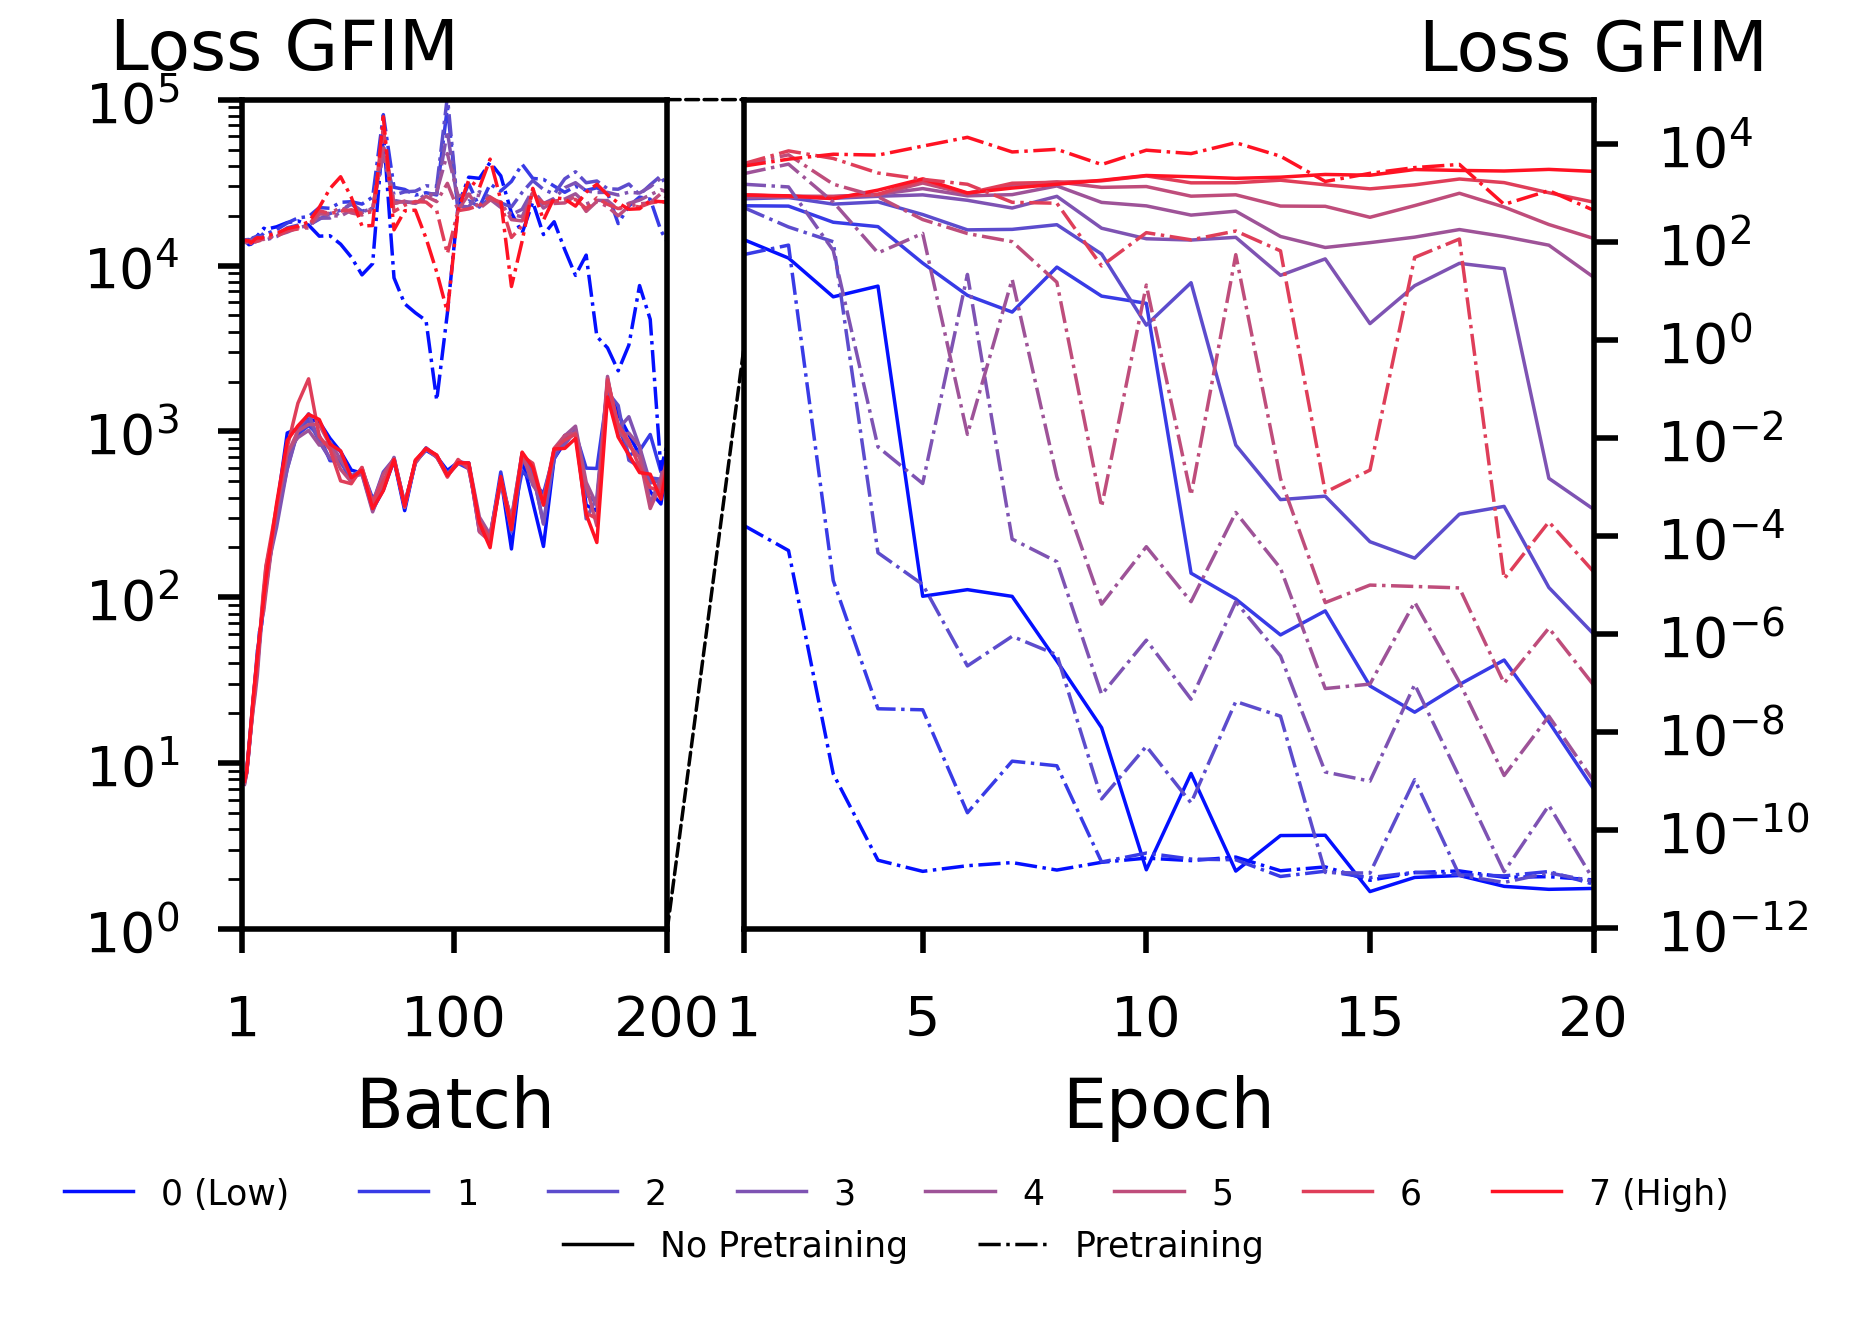
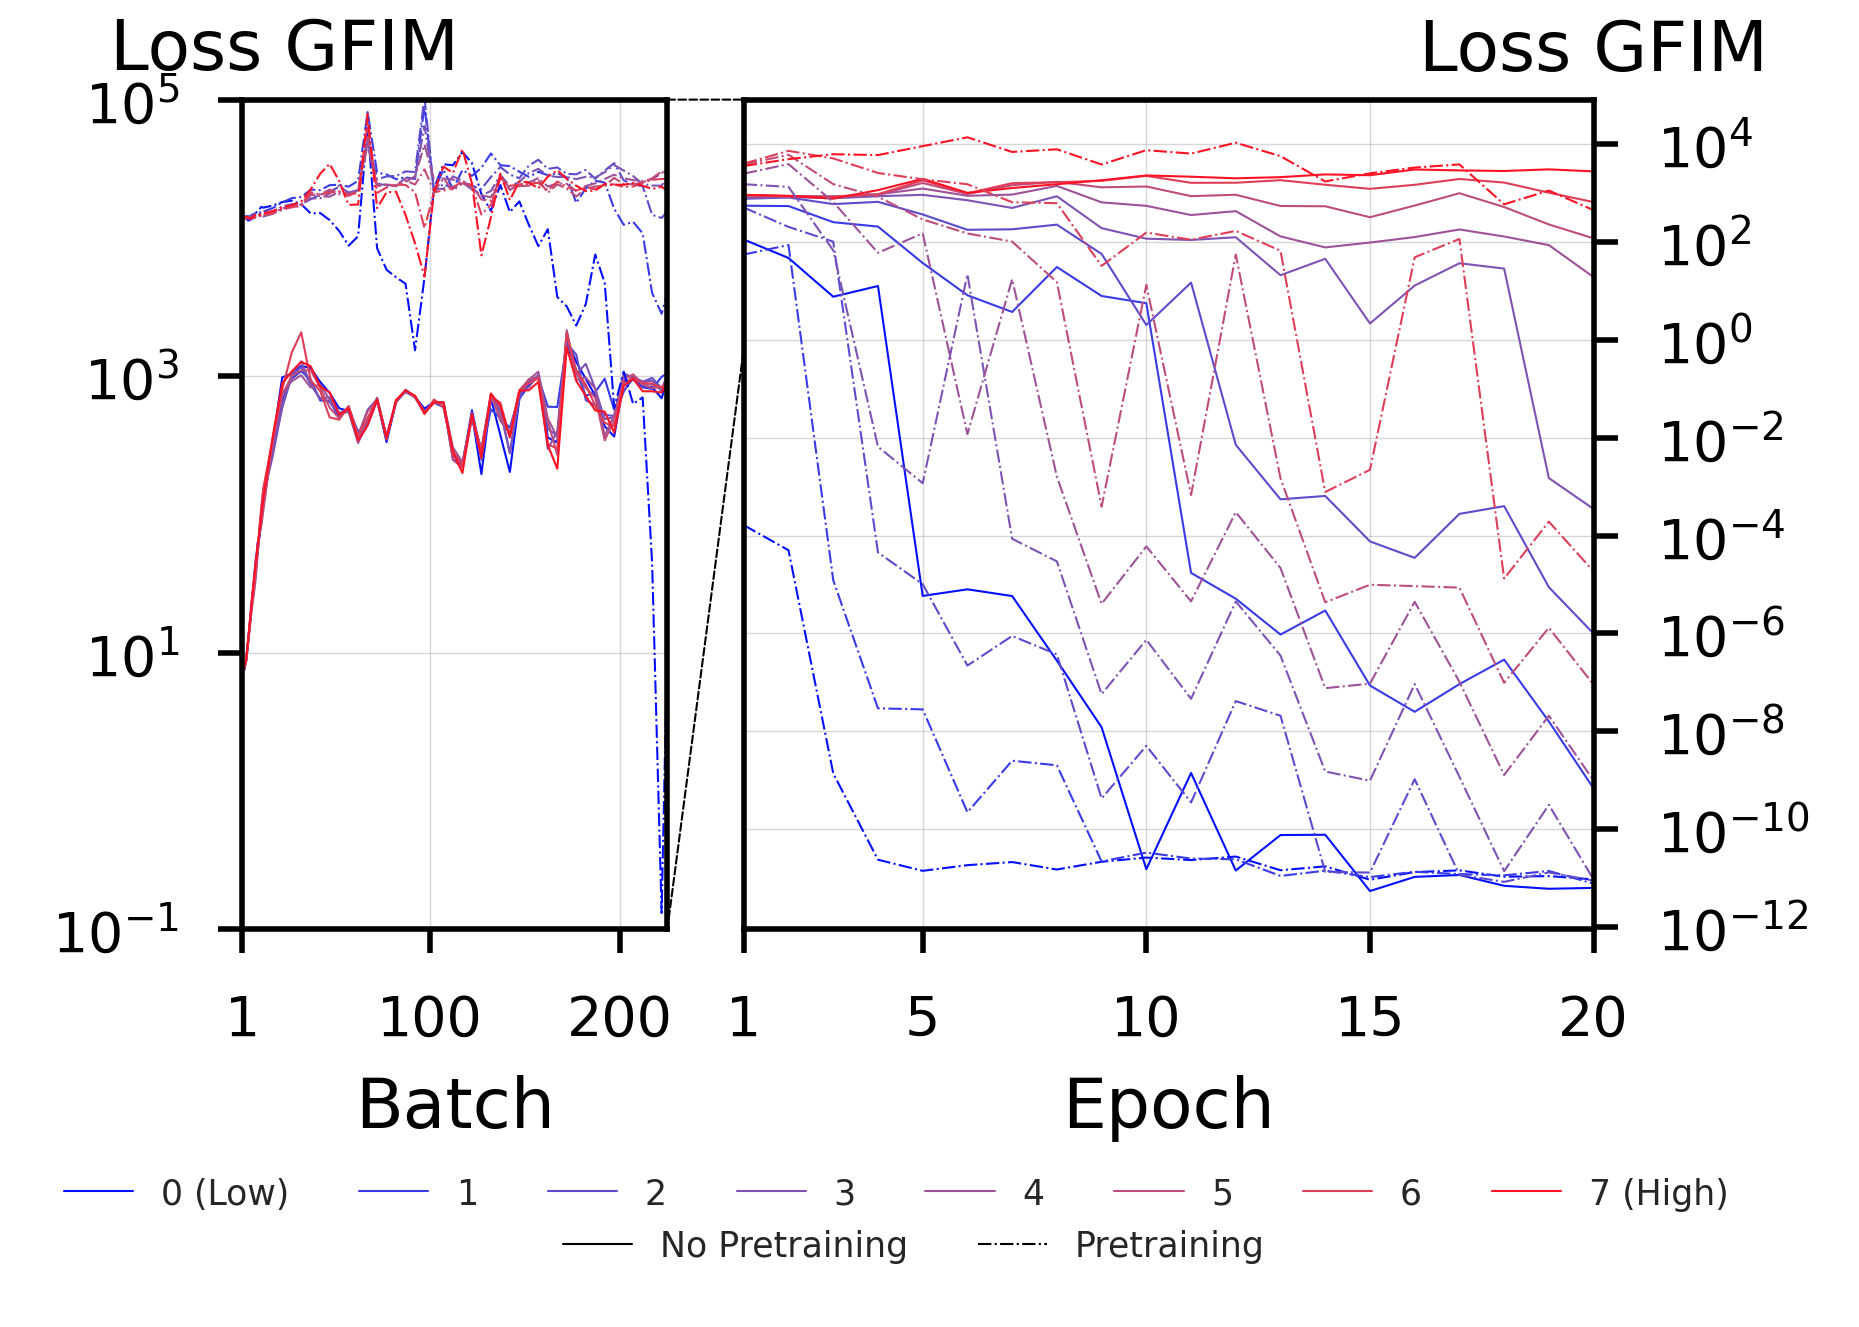
new vit and ham scales

diff --git a/graphs.py b/graphs.py
@@ -55,7 +55,7 @@ plt.rcParams.update({
 
 #cols = ["#2b1c8f","#7037a3","#a458b7","#d37ccd","#ffa4e4","#fc8bc5","#f672a4","#ec5980"]
 cols = ["#0410ff","#383be6","#5c4ccd","#7e53b3","#9e5398","#bf4d7b","#df3e59","#ff1223"]
-linsize = 0.6
+linsize = 0.3
 
 #OriginalFIM
 def make_OGFIM():
@@ -827,14 +827,15 @@ def make_HAMcom():
     FIMstep = pd.read_csv('HAM_nopre.csv', sep=',')
     FIMstep['Step'] = FIMstep['Step']+1
     #take first 20 epochs
-    FIMstep = FIMstep.iloc[:20]
+    FIMstep = FIMstep.iloc[:437]
     print(FIMstep.head())
+    
 
     FIM1step = pd.read_csv('HAM_pre.csv', sep=',')
     FIM1step['Step'] = FIM1step['Step']+1
 
     fig, (ax1,ax2) = plt.subplots(1,2,figsize=set_size(252),width_ratios=[1, 2],gridspec_kw={'wspace': 0.12})
-
+    sea.set(style="whitegrid")
     sea.lineplot(ax=ax2,x="Step",y="0",data=FIMstep,label="_nolegend_",linewidth=linsize,color=cols[0])
     sea.lineplot(ax=ax2,x="Step",y="1",data=FIMstep,label="_nolegend_",linewidth=linsize,color=cols[1])
     sea.lineplot(ax=ax2,x="Step",y="2",data=FIMstep,label="_nolegend_",linewidth=linsize,color=cols[2])
@@ -861,6 +862,8 @@ def make_HAMcom():
     ax2.yaxis.set_label_coords(1,1.1)
     ax2.set_yscale('log')
     ax2.set_yticks([1e-12,1e-10,1e-8,1e-6,1e-4,1e-2,1e0,1e2,1e4])
+    ax2.grid(True,which='major',axis='both',linestyle='-',linewidth=0.2,alpha=0.5)
+    ax2.grid(True,which='minor',axis='y',linestyle='--',linewidth=0.2,alpha=0.5)
     #ax2.get_legend().remove()
 
     ax2.yaxis.set_label_position("right")
@@ -891,14 +894,16 @@ def make_HAMcom():
     sea.lineplot(ax=ax1,x="Step",y="7",data=FIM1step,label="_nolegend_",linewidth=linsize,color=cols[7], linestyle='-.')
 
     ax1.set_xlabel("Batch")
-    ax1.set_xlim([1,200])
+    ax1.set_xlim([1,225])
     ax1.set_xticks([1,100,200])
     ax1.set_ylabel("Loss GFIM",rotation=0)
     ax1.yaxis.set_label_coords(0.1,1.02)
     ax1.set_yscale('log')
-    ax1.set_ylim([1e0,1e5])
+    ax1.set_ylim([1e-1,1e5])
     ax1.get_legend().remove()
     fig.legend(loc='lower center',ncol=8,frameon=False,bbox_to_anchor=(0.5, -0.18),fontsize=5)
+    ax1.grid(True,which='major',axis='both',linestyle='-',linewidth=0.2,alpha=0.5)
+    ax1.grid(True,which='minor',axis='y',linestyle='--',linewidth=0.2,alpha=0.5)
     legend1 = plt.legend([plt.Line2D([0], [0], color='black', lw=linsize,linestyle='-'),
                     plt.Line2D([0], [0], color='black', lw=linsize,linestyle='-.')],
                     ['No Pretraining', 'Pretraining'],
@@ -1015,9 +1020,9 @@ def make_VIT001():
     #ax1.yaxis.set_ticks([1,50,100,150,200,250])
 
     ax1.set_xlabel("Batch")
-    ax1.set_xlim([1,200])
+    ax1.set_xlim([1,390])
     start,end = ax1.get_xlim()
-    ax1.xaxis.set_ticks([1,100,200])
+    ax1.xaxis.set_ticks([1,100,200,300])
     ax1.get_legend().remove()
     ax1.grid(True,which='major',axis='both',linestyle='-',linewidth=0.2,alpha=0.5)
     ax1.grid(True,which='minor',axis='y',linestyle='--',linewidth=0.2,alpha=0.5)
@@ -1182,7 +1187,7 @@ def make_VIT00001():
     #ax1.yaxis.set_ticks([1,50,100,150,200,250])
 
     ax1.set_xlabel("Batch")
-    ax1.set_xlim([1,300])
+    ax1.set_xlim([1,390])
     start,end = ax1.get_xlim()
     ax1.xaxis.set_ticks([1,100,200,300])
     ax1.get_legend().remove()
@@ -1328,6 +1333,6 @@ def make_VIT000001():
 
 #make_VIT00001()
 
-make_loss()
+make_VIT00001()
 
 #make_VIT()
